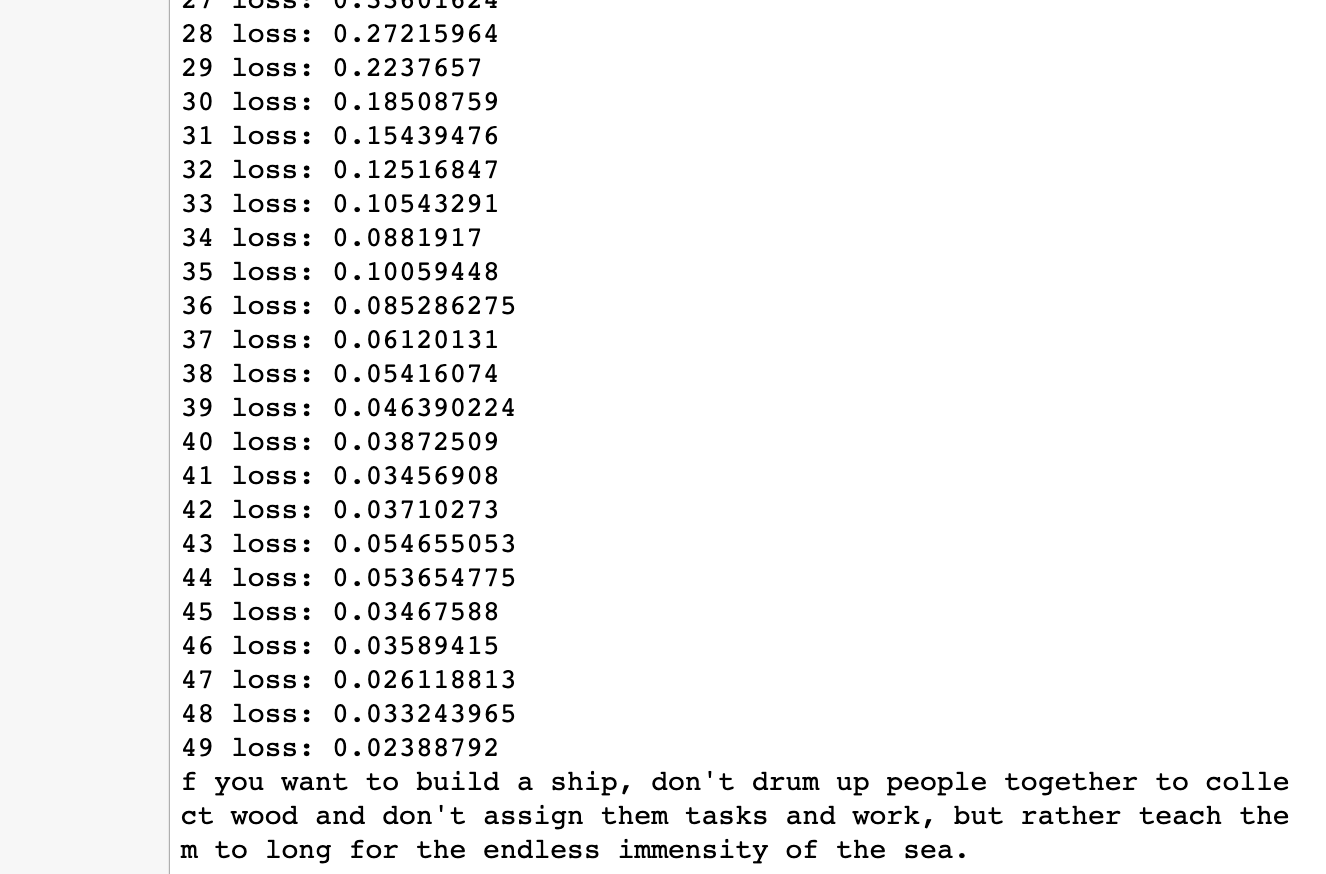
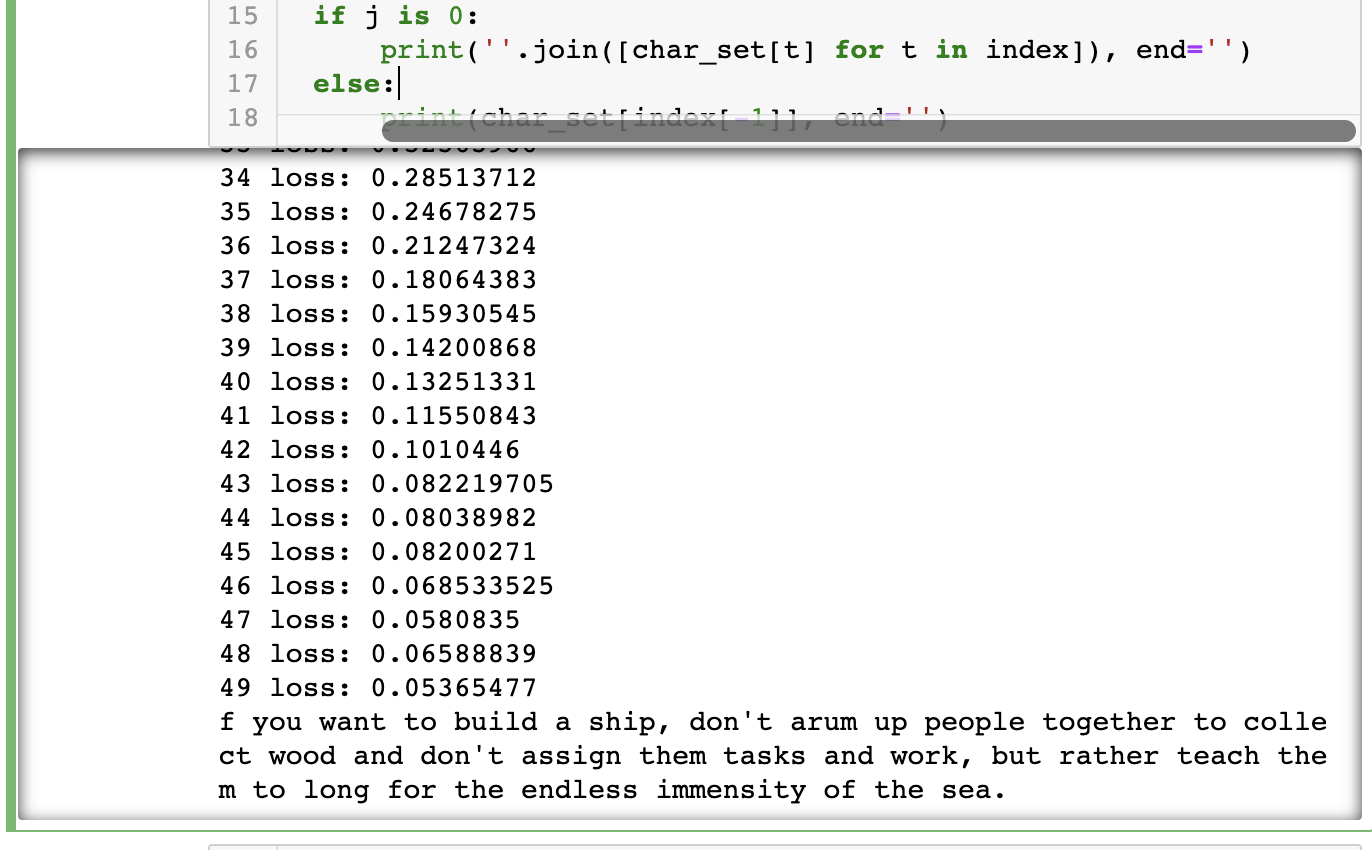
rnn - long sequence

Changed region(s): [[0.0, 0.0, 1.0, 1.0], [0.6802, 0.0306, 0.8039, 0.0918], [0.8348, 0.0306, 0.8967, 0.0918]]

diff --git a/hyu_class/lab/07_rnn/solution.py b/hyu_class/lab/07_rnn/solution.py
@@ -28,16 +28,30 @@ learning_rate = 0.1
 # In[3]:
 
 
-sample_idx = [char_dic[c] for c in sentence]
-x_data = [sample_idx[:-1]]  # 0 ~ n-1
-y_data = [sample_idx[1:]]  # 1 ~ n
+dataX = []
+dataY = []
+for i in range(0, len(sentence) - sequence_length):
+    x_str = sentence[i:i + sequence_length]
+    y_str = sentence[i + 1: i + sequence_length + 1]
+    print(i, x_str, '->', y_str)
+
+    x = [char_dic[c] for c in x_str]
+    y = [char_dic[c] for c in y_str]
+
+    dataX.append(x)
+    dataY.append(y)
+
+# In[4]:
+
+
+batch_size = len(dataX)
 
 X = tf.placeholder(tf.int32, [None, sequence_length])
 Y = tf.placeholder(tf.int32, [None, sequence_length])
 
 x_one_hot = tf.one_hot(X, num_classes)
 
-# In[4]:
+# In[5]:
 
 
 # RNN architecture
@@ -49,7 +63,7 @@ outputs, _states = tf.nn.dynamic_rnn(cell, x_one_hot, dtype=tf.float32, initial_
 X_for_fc = tf.reshape(outputs, [-1, hidden_size])
 outputs = tf.contrib.layers.fully_connected(X_for_fc, num_classes, activation_fn=None)
 
-# In[5]:
+# In[6]:
 
 
 # reshape out for sequence_loss
@@ -69,20 +83,17 @@ prediction = tf.argmax(outputs, axis=2)
 with tf.Session() as sess:
     sess.run(tf.global_variables_initializer())
     for i in range(50):
-        l, _ = sess.run([loss, train], feed_dict={X: x_data, Y: y_data})
-        result = sess.run(prediction, feed_dict={X: x_data})
+        l, _ = sess.run([loss, train], feed_dict={X: dataX, Y: dataY})
+        result = sess.run(prediction, feed_dict={X: dataX})
 
         result_str = [char_set[c] for c in np.squeeze(result)]
         print(i, "loss:", l)
 
     # Print
-    results = sess.run(outputs, feed_dict={X: x_data})
+    results = sess.run(outputs, feed_dict={X: dataX})
     for j, result in enumerate(results):
         index = np.argmax(result, axis=1)
         if j is 0:
             print(''.join([char_set[t] for t in index]), end='')
         else:
             print(char_set[index[-1]], end='')
-
-
-
